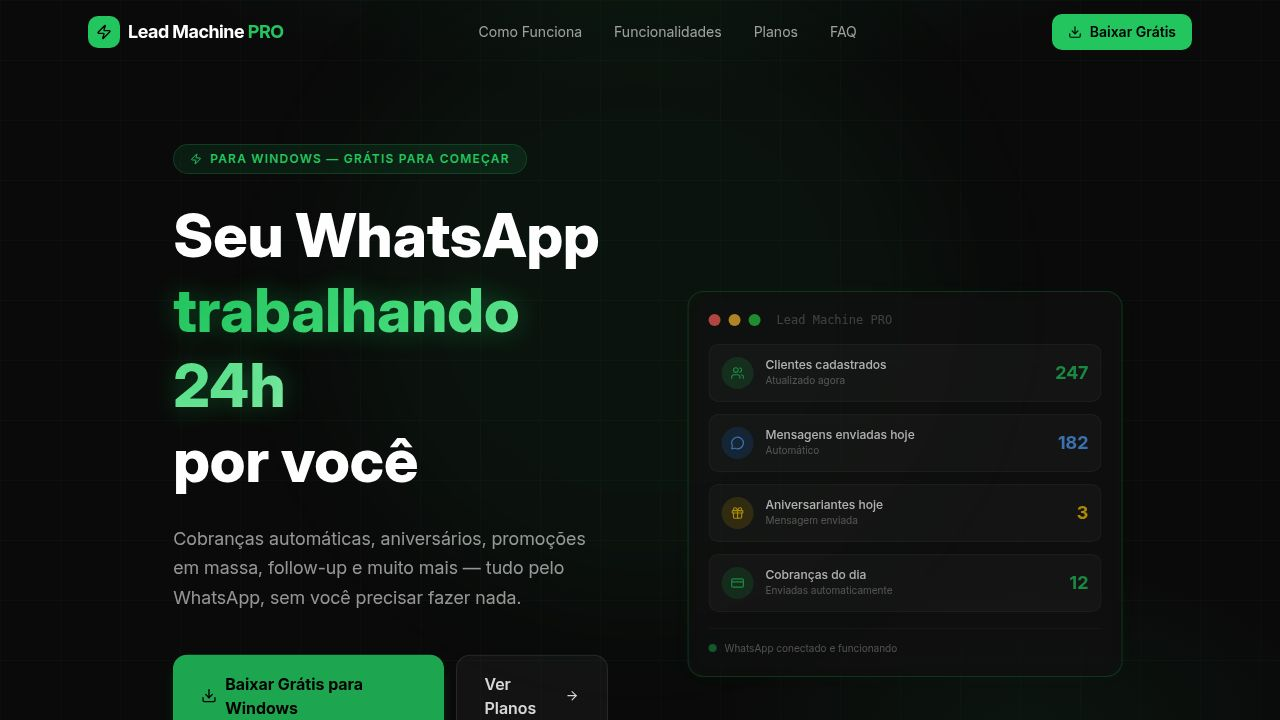
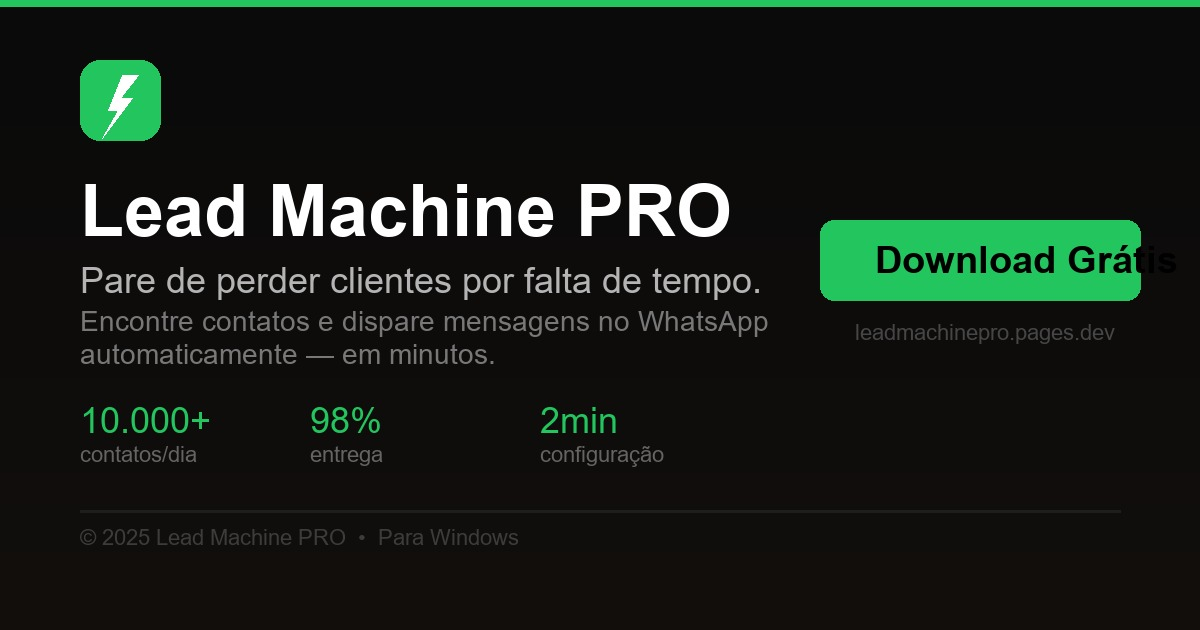
Add legal pages, fix OG image, add footer links
- Add Política de Privacidade (LGPD) and Termos de Uso pages
- Replace Replit default opengraph.jpg with Lead Machine PRO branded image
- Add privacy/terms links in footer

diff --git a/public/termos.html b/public/termos.html
@@ -1,0 +1,72 @@
+<!DOCTYPE html>
+<html lang="pt-BR">
+<head>
+  <meta charset="UTF-8" />
+  <meta name="viewport" content="width=device-width, initial-scale=1.0" />
+  <title>Termos de Uso — Lead Machine PRO</title>
+  <style>
+    * { box-sizing: border-box; margin: 0; padding: 0; }
+    body { background: #0a0a0a; color: #e8e8e8; font-family: -apple-system, BlinkMacSystemFont, 'Segoe UI', sans-serif; line-height: 1.7; padding: 40px 20px; }
+    .container { max-width: 760px; margin: 0 auto; }
+    a { color: #22c55e; text-decoration: none; }
+    a:hover { text-decoration: underline; }
+    h1 { font-size: 2rem; font-weight: 700; margin-bottom: 8px; color: #fff; }
+    h2 { font-size: 1.2rem; font-weight: 600; margin: 32px 0 12px; color: #fff; }
+    p { margin-bottom: 14px; color: #c0c0c0; }
+    ul { margin: 0 0 14px 24px; color: #c0c0c0; }
+    li { margin-bottom: 6px; }
+    .back { display: inline-flex; align-items: center; gap: 6px; color: #22c55e; margin-bottom: 32px; font-size: 0.9rem; }
+    .date { color: #555; font-size: 0.85rem; margin-bottom: 32px; }
+  </style>
+</head>
+<body>
+  <div class="container">
+    <a class="back" href="/">← Voltar ao site</a>
+    <h1>Termos de Uso</h1>
+    <p class="date">Última atualização: junho de 2025</p>
+
+    <p>Ao instalar ou utilizar o software <strong>Lead Machine PRO</strong>, você concorda com os presentes Termos de Uso. Leia com atenção antes de prosseguir.</p>
+
+    <h2>1. Licença de uso</h2>
+    <p>O Lead Machine PRO é um software proprietário licenciado, não vendido. Você recebe uma licença pessoal, intransferível e não exclusiva para instalar e usar o software em um único computador vinculado ao seu hardware (HWID).</p>
+
+    <h2>2. Restrições</h2>
+    <p>É expressamente proibido:</p>
+    <ul>
+      <li>Copiar, distribuir, revender ou sublicenciar o software;</li>
+      <li>Realizar engenharia reversa, descompilar ou desmontar o software;</li>
+      <li>Remover ou alterar avisos de direitos autorais ou proteções de licença;</li>
+      <li>Usar o software para fins ilegais ou que violem os Termos de Uso do WhatsApp;</li>
+      <li>Compartilhar credenciais de licença com terceiros;</li>
+      <li>Tentar contornar os mecanismos de verificação de licença.</li>
+    </ul>
+    <p>O descumprimento destas restrições implica revogação imediata da licença, sem direito a reembolso, além de responsabilização civil e criminal cabível.</p>
+
+    <h2>3. Atualizações e disponibilidade</h2>
+    <p>Podemos lançar atualizações para o software a qualquer momento. O acesso às atualizações é incluído durante o período de licença ativa. Não garantimos disponibilidade ininterrupta dos servidores de validação, mas nos comprometemos a manter um período de graça offline de pelo menos 3 dias.</p>
+
+    <h2>4. Limitação de responsabilidade</h2>
+    <p>O Lead Machine PRO é fornecido "como está". Não nos responsabilizamos por:</p>
+    <ul>
+      <li>Bloqueios ou restrições impostos pelo WhatsApp à sua conta;</li>
+      <li>Resultados de vendas ou prospecção obtidos com o uso do software;</li>
+      <li>Danos indiretos, perda de dados ou lucros cessantes;</li>
+      <li>Falhas de terceiros (internet, Supabase, Mercado Pago).</li>
+    </ul>
+
+    <h2>5. Política de reembolso</h2>
+    <p>Oferecemos reembolso integral em até 7 dias após a compra, desde que o software não tenha sido utilizado de forma a violar estes termos. Solicitações fora do prazo ou em casos de violação não serão atendidas. Contato: <a href="https://wa.me/5562994075710" target="_blank" rel="noopener noreferrer">wa.me/5562994075710</a>.</p>
+
+    <h2>6. Rescisão</h2>
+    <p>Podemos revogar sua licença imediatamente, sem aviso prévio, em caso de violação destes termos. Após a rescisão, você deve desinstalar o software e destruir todas as cópias.</p>
+
+    <h2>7. Legislação aplicável</h2>
+    <p>Estes termos são regidos pelas leis brasileiras. Eventuais conflitos serão resolvidos no foro da comarca de Goiânia-GO, com renúncia a qualquer outro.</p>
+
+    <h2>8. Contato</h2>
+    <p>Dúvidas sobre estes termos? Entre em contato:<br/>
+    WhatsApp: <a href="https://wa.me/[phone redacted]" target="_blank" rel="noopener noreferrer">(62) [phone redacted]</a><br/>
+    E-mail: [email redacted]</p>
+  </div>
+</body>
+</html>

diff --git a/public/privacidade.html b/public/privacidade.html
@@ -1,0 +1,65 @@
+<!DOCTYPE html>
+<html lang="pt-BR">
+<head>
+  <meta charset="UTF-8" />
+  <meta name="viewport" content="width=device-width, initial-scale=1.0" />
+  <title>Política de Privacidade — Lead Machine PRO</title>
+  <style>
+    * { box-sizing: border-box; margin: 0; padding: 0; }
+    body { background: #0a0a0a; color: #e8e8e8; font-family: -apple-system, BlinkMacSystemFont, 'Segoe UI', sans-serif; line-height: 1.7; padding: 40px 20px; }
+    .container { max-width: 760px; margin: 0 auto; }
+    a { color: #22c55e; text-decoration: none; }
+    a:hover { text-decoration: underline; }
+    h1 { font-size: 2rem; font-weight: 700; margin-bottom: 8px; color: #fff; }
+    h2 { font-size: 1.2rem; font-weight: 600; margin: 32px 0 12px; color: #fff; }
+    p { margin-bottom: 14px; color: #c0c0c0; }
+    ul { margin: 0 0 14px 24px; color: #c0c0c0; }
+    li { margin-bottom: 6px; }
+    .back { display: inline-flex; align-items: center; gap: 6px; color: #22c55e; margin-bottom: 32px; font-size: 0.9rem; }
+    .date { color: #555; font-size: 0.85rem; margin-bottom: 32px; }
+  </style>
+</head>
+<body>
+  <div class="container">
+    <a class="back" href="/">← Voltar ao site</a>
+    <h1>Política de Privacidade</h1>
+    <p class="date">Última atualização: junho de 2025</p>
+
+    <p>A <strong>Lead Machine PRO</strong> ("nós", "nosso") respeita sua privacidade e cumpre a Lei Geral de Proteção de Dados (LGPD — Lei nº 13.709/2018). Este documento explica quais dados coletamos, como os usamos e quais são seus direitos.</p>
+
+    <h2>1. Dados coletados</h2>
+    <p>Ao instalar e usar o Lead Machine PRO, podemos coletar:</p>
+    <ul>
+      <li><strong>Identificador de hardware (HWID)</strong> — hash derivado de componentes internos do seu computador, usado exclusivamente para vincular a licença ao dispositivo.</li>
+      <li><strong>Chave de licença</strong> — código de ativação do software.</li>
+      <li><strong>Dados de uso</strong> — contadores internos de funções do app (ex: número de buscas realizadas), armazenados localmente no dispositivo.</li>
+      <li><strong>E-mail (opcional)</strong> — caso fornecido durante a compra ou pré-cadastro, para comunicação sobre a licença.</li>
+    </ul>
+    <p>O Lead Machine PRO <strong>não coleta</strong> dados pessoais dos contatos buscados, não armazena conversas do WhatsApp e não acessa arquivos fora do seu diretório de instalação.</p>
+
+    <h2>2. Finalidade do tratamento</h2>
+    <ul>
+      <li>Ativação e validação da licença de uso do software;</li>
+      <li>Prevenção de uso indevido (fraude, pirataria, compartilhamento não autorizado);</li>
+      <li>Comunicação de atualizações e suporte técnico (apenas se e-mail foi fornecido).</li>
+    </ul>
+
+    <h2>3. Compartilhamento</h2>
+    <p>Seus dados <strong>não são vendidos</strong> nem compartilhados com terceiros para fins de marketing. O HWID e a chave de licença são enviados ao nosso servidor seguro (Supabase) apenas para validação. Utilizamos o Mercado Pago como processador de pagamentos — os dados de pagamento são tratados exclusivamente por eles, nunca passando pelo Lead Machine PRO.</p>
+
+    <h2>4. Retenção de dados</h2>
+    <p>O HWID e a chave de licença são retidos enquanto a licença estiver ativa ou pelo prazo necessário para cumprir obrigações legais. Você pode solicitar a exclusão a qualquer momento pelo WhatsApp de suporte.</p>
+
+    <h2>5. Segurança</h2>
+    <p>Adotamos criptografia (ECDSA P-256) para proteger a integridade dos arquivos de licença e comunicação com o servidor. O acesso ao banco de dados é restrito por regras de segurança em nível de linha (RLS), sem exposição de chaves secretas ao cliente.</p>
+
+    <h2>6. Seus direitos (LGPD)</h2>
+    <p>Você tem o direito de: confirmar a existência de tratamento dos seus dados; acessar, corrigir ou excluir seus dados; opor-se ao tratamento; e revogar consentimento. Para exercer esses direitos, entre em contato pelo WhatsApp: <a href="https://wa.me/[phone redacted]" target="_blank" rel="noopener noreferrer">wa.me/[phone redacted]</a>.</p>
+
+    <h2>7. Contato</h2>
+    <p>Dúvidas sobre esta política? Fale conosco:<br/>
+    WhatsApp: <a href="https://wa.me/[phone redacted]" target="_blank" rel="noopener noreferrer">(62) [phone redacted]</a><br/>
+    E-mail: [email redacted]</p>
+  </div>
+</body>
+</html>

diff --git a/src/App.tsx b/src/App.tsx
@@ -1071,9 +1071,15 @@ function Footer() {
             </a>
           </div>
 
-          <p className="text-xs text-white/20">
-            &copy; {new Date().getFullYear()} Lead Machine PRO. Todos os direitos reservados.
-          </p>
+          <div className="flex flex-col items-center md:items-end gap-1">
+            <p className="text-xs text-white/20">
+              &copy; {new Date().getFullYear()} Lead Machine PRO. Todos os direitos reservados.
+            </p>
+            <div className="flex gap-4 text-xs text-white/30">
+              <a href="/privacidade.html" className="hover:text-white/60 transition-colors">Política de Privacidade</a>
+              <a href="/termos.html" className="hover:text-white/60 transition-colors">Termos de Uso</a>
+            </div>
+          </div>
         </div>
       </div>
     </footer>